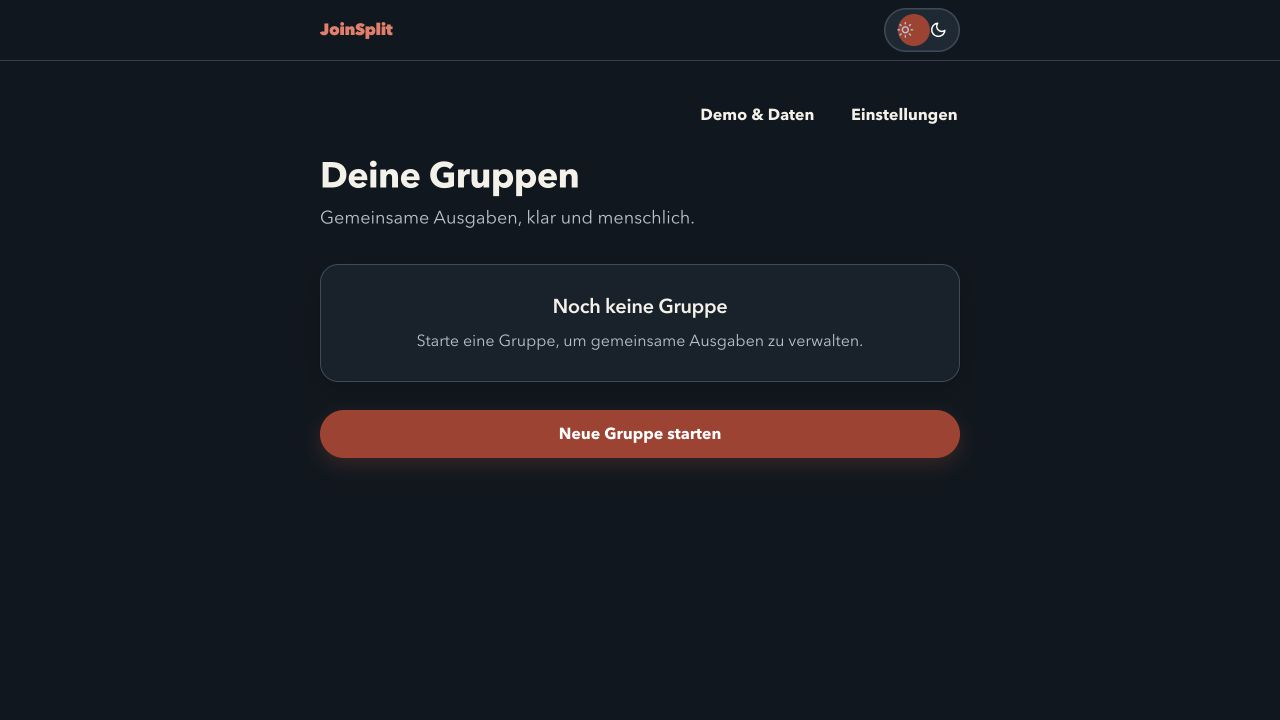
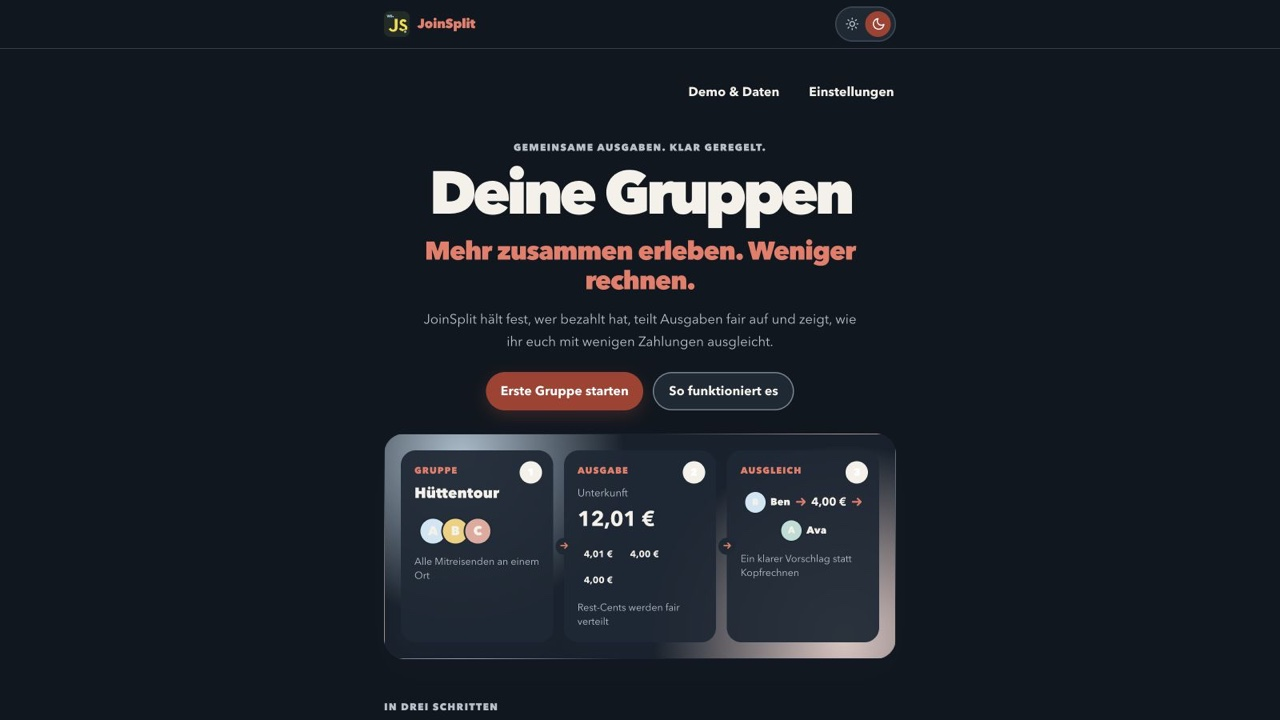
Update JoinSplit preview and section navigation

diff --git a/public/assets/portfolio.css b/public/assets/portfolio.css
@@ -3,6 +3,7 @@
 *{box-sizing:border-box}html{scroll-behavior:smooth;scroll-padding-top:var(--sticky-stack-height,6rem)}body{margin:0}a{color:inherit;text-underline-offset:5px}a:focus-visible{outline:3px solid #9c661d;outline-offset:5px}p{line-height:1.75}h1,h2,h3,p{margin-top:0}h1,h2{letter-spacing:-.055em;line-height:1.05;font-weight:600}h1{font-size:clamp(2.7rem,5.3vw,5.8rem);margin-bottom:2rem}h1 em{font-family:Georgia,serif;font-weight:400;color:var(--accent)}h2{font-size:clamp(2rem,3.5vw,3.7rem);max-width:850px;margin-bottom:2.5rem}h3{font-size:1.3rem;letter-spacing:-.025em;line-height:1.25}ul{padding:0;list-style:none}.header,.hero,.section-nav,.section,.footer{max-width:1440px;margin:auto}.header{padding:1.7rem 5%;display:flex;align-items:center;gap:1.2rem}.brand{font-size:2.6rem;font-weight:700;letter-spacing:-.1em;text-decoration:none}.brand span{color:var(--accent)}.header-name{font-size:.85rem;font-weight:600}.header-name small{display:block;color:var(--muted);margin-top:.3rem;font-weight:400}.contact-link{margin-left:auto;font-size:.9rem;text-decoration:none}.hero{padding:5rem 5% 6rem;display:grid;grid-template-columns:minmax(0,1.8fr) minmax(260px,1fr);gap:5%}.eyebrow,.section-label,.meta,.card-label{font-size:.75rem;letter-spacing:.07em;line-height:1.6}.eyebrow{text-transform:uppercase;margin-bottom:2rem;display:flex;align-items:center;gap:.7rem}.dot{width:7px;height:7px;flex-shrink:0;border-radius:50%;background:var(--accent)}.lead,.copy{font-size:1.1rem;max-width:730px;color:var(--muted)}.actions{display:flex;flex-wrap:wrap;align-items:center;gap:1.7rem;margin-top:2rem;font-size:.9rem}.actions a{text-decoration:none}.button{background:var(--ink);color:white;padding:1.05rem 1.3rem;border-radius:4px}.hero-card{background:var(--green);padding:2rem;display:flex;flex-direction:column;justify-content:space-between;position:relative;min-height:450px;border-radius:3px}.card-label{text-transform:uppercase}.monogram{font-family:Georgia,serif;font-size:clamp(6rem,10vw,10rem);letter-spacing:-.17em;line-height:1.2;align-self:center;font-style:italic;color:var(--accent)}.monogram span{color:var(--ink)}.hero-card p{font-size:1.5rem;letter-spacing:-.03em;line-height:1.3;max-width:250px}.hero-card small{color:var(--muted);font-size:.7rem}.tags{display:flex;flex-wrap:wrap;gap:.5rem;margin:1.2rem 0}.tags li{font-size:.76rem;border:1px solid currentColor;border-color:#71807170;border-radius:3px;padding:.4rem .7rem;line-height:1.4}.section-nav-sentinel{display:block;height:1px;margin-bottom:-1px}.section-nav{position:sticky;top:0;z-index:20;display:flex;flex-wrap:wrap;gap:1.2rem;padding:1.7rem 5% 1.7rem calc(5% + 3.1rem);border-top:1px solid var(--line);border-bottom:1px solid var(--line);background:var(--paper);transition:box-shadow .18s ease}.section-nav.is-stuck{box-shadow:0 5px 16px #202b2617}.section-nav a{font-size:.8rem;text-decoration:none;transition:color .16s ease}.section-nav a[aria-current=location]{color:var(--accent)}.section-nav-brand{position:absolute;left:5%;top:50%;display:inline-flex;align-items:center;font-size:1.5rem!important;font-weight:700;letter-spacing:-.1em;line-height:1;transform:translateY(-50%)}.section-nav-brand span{color:var(--accent)}.section-nav.is-stuck .section-nav-brand{animation:section-nav-brand-settle .38s cubic-bezier(.2,.8,.35,1.25)}@keyframes section-nav-brand-settle{0%{transform:translateY(-50%) scale(.9)}65%{transform:translateY(-50%) scale(1.06)}100%{transform:translateY(-50%) scale(1)}}.section-context{position:fixed;top:var(--section-nav-height,0);left:0;right:0;z-index:19;color:var(--section-context-color,var(--ink));background:var(--section-context-bg,var(--paper));border-bottom:1px solid #71807140;box-shadow:0 5px 16px #202b2610;opacity:0;visibility:hidden;transform:translateY(-100%);pointer-events:none;transition:opacity .16s ease,transform .18s ease,visibility 0s linear .18s}.section-context.is-visible{opacity:1;visibility:visible;transform:none;transition-delay:0s}.section-context-inner{display:flex;align-items:center;gap:1rem;max-width:1440px;margin:auto;padding:.65rem 5%}.section-context span{flex:0 0 auto;font-size:.68rem;letter-spacing:.07em;text-transform:uppercase}.section-context strong{min-width:0;overflow:hidden;text-overflow:ellipsis;white-space:nowrap;font-size:.9rem;letter-spacing:-.02em}.section{padding:6rem 5%;display:block;border-bottom:1px solid var(--line)}.section>.section-label,.section>div{width:min(100%,900px);margin-left:auto;margin-right:auto}.section-label{color:var(--muted);padding-top:0;margin-bottom:.8rem}.green{background:var(--green)}.skill-grid{display:grid;grid-template-columns:repeat(3,minmax(0,1fr));gap:2rem}.skill p,.entry p,.project p{font-size:.93rem;color:var(--muted)}.skill h3{margin-top:1.4rem}.entry{padding:2rem 0;border-top:1px solid var(--line);max-width:800px}.entry p:last-child{margin-bottom:0}.entry .meta{font-size:.75rem}.role{font-weight:600}.project-grid{display:grid;grid-template-columns:repeat(2,minmax(0,1fr));gap:2rem}.project{border:1px solid var(--line);border-radius:4px;overflow:hidden}.project-cover{min-height:200px;padding:1.5rem;display:flex;flex-direction:column;justify-content:space-between;background:#b2cbd7}.project-cover span{font-size:.7rem}.project-cover h3{font-size:2.4rem;margin:1.5rem 0 0}.ice .project-cover{background:#d8e5e8}.lime .project-cover{background:#dce8b9}.ink .project-cover{background:#253831;color:var(--paper)}.atm .project-cover{background:#c9ddd1}.project-copy{padding:1.5rem}.project-link{display:inline-block;margin-top:.5rem;font-size:.88rem;font-weight:600;text-decoration:none}.project-link:hover{text-decoration:underline}.note{font-size:.8rem;line-height:1.8;color:var(--muted);margin-top:2rem;max-width:800px}.dark{background:var(--ink);color:var(--paper)}.dark .copy,.dark .note,.dark .section-label{color:#c9d5c8}.contact{background:#dbe6ea}.email{font-size:clamp(1.1rem,2.7vw,2.8rem);letter-spacing:-.03em;overflow-wrap:anywhere}.footer{padding:2rem 5%;display:flex;flex-wrap:wrap;justify-content:space-between;gap:1rem;font-size:.7rem;color:var(--muted)}.skip{position:absolute;top:.5rem;left:.5rem;transform:translateY(-200%);background:var(--ink);color:white;padding:1rem;z-index:25}.skip:focus{transform:none}.sr-only{position:absolute;width:1px;height:1px;overflow:hidden;clip-path:inset(50%);white-space:nowrap}
 .brand-cluster{display:inline-grid;justify-items:start}.brand-mark-cluster{position:relative;display:inline-block}.site-home-link{position:absolute;top:calc(100% - 4px);right:0;display:grid;width:32px;height:32px;place-items:center;transform:scale(.82);color:var(--muted);background:#f4f1e9b8;border:0;border-radius:50%;text-decoration:none;opacity:0;pointer-events:none;transition:color .16s ease .5s,background .16s ease .5s,opacity .2s ease .5s,transform .2s ease .5s}.brand-mark-cluster:hover .site-home-link,.brand-mark-cluster:focus-within .site-home-link{transform:scale(1);opacity:1;pointer-events:auto;transition-delay:0s}.site-home-link:hover{color:var(--accent);background:#f4f1e9}.site-home-link .icon{width:20px;height:20px}@media(hover:none){.site-home-link{transform:scale(1);opacity:1;pointer-events:auto;transition-delay:0s}}
 .project-preview{display:block;width:100%;height:180px;object-fit:cover;object-position:top}
+.violet .project-preview{object-position:center bottom}
 .project-title{display:flex;align-items:center;gap:clamp(.7rem,2vw,1rem)}.project-app-icon{display:block;width:clamp(48px,6vw,64px);height:auto;aspect-ratio:1;flex:0 0 auto}
 @media(max-width:1050px){.skill-grid,.project-grid{grid-template-columns:1fr}.skill{border-top:1px solid #71807140;padding-top:1rem}.hero{gap:2rem}.hero-card{padding:1.5rem}}
 @media(max-width:700px){.header{padding:1.2rem 6%}.hero{padding:3rem 6%;grid-template-columns:1fr}.hero-card{min-height:310px}.monogram{font-size:7rem}.section{padding:3.5rem 6%}.section-nav{padding:1.5rem 6% 1.5rem calc(6% + 3.1rem)}.section-nav-brand{left:6%}.section-context-inner{padding:.6rem 6%;gap:.7rem}.section-context strong{font-size:.82rem}.project-grid{grid-template-columns:1fr}.footer{padding:1.5rem 6%}h2{margin-bottom:2rem}.eyebrow{font-size:.65rem}.lead,.copy{font-size:1rem}}

diff --git a/public/index.php b/public/index.php
@@ -260,16 +260,6 @@ $sections = $en
 
     sectionLinks.forEach((link) => {
       link.addEventListener('click', (event) => {
-        if (link.hash === '#ueber-mich') {
-          event.preventDefault();
-          history.pushState(null, '', '#start');
-          window.scrollTo({
-            top: 0,
-            behavior: matchMedia('(prefers-reduced-motion: reduce)').matches ? 'auto' : 'smooth',
-          });
-          return;
-        }
-
         const target = document.querySelector(link.getAttribute('href'));
         if (!target) return;
 
